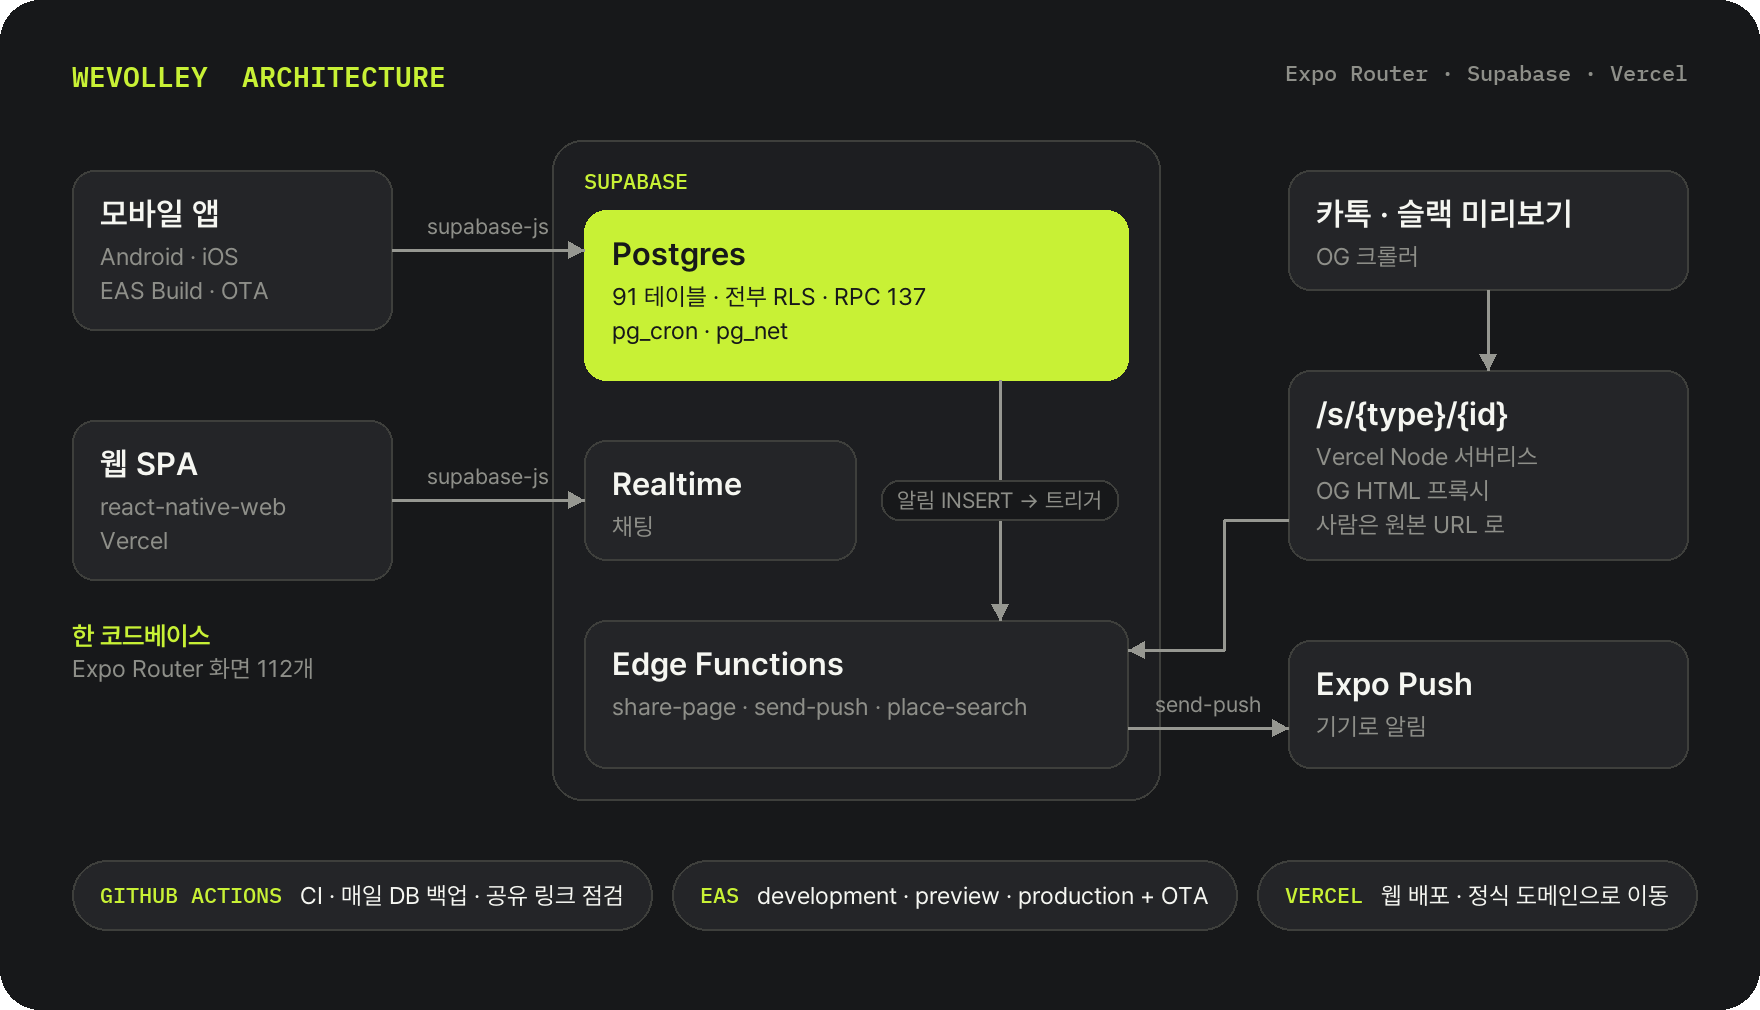
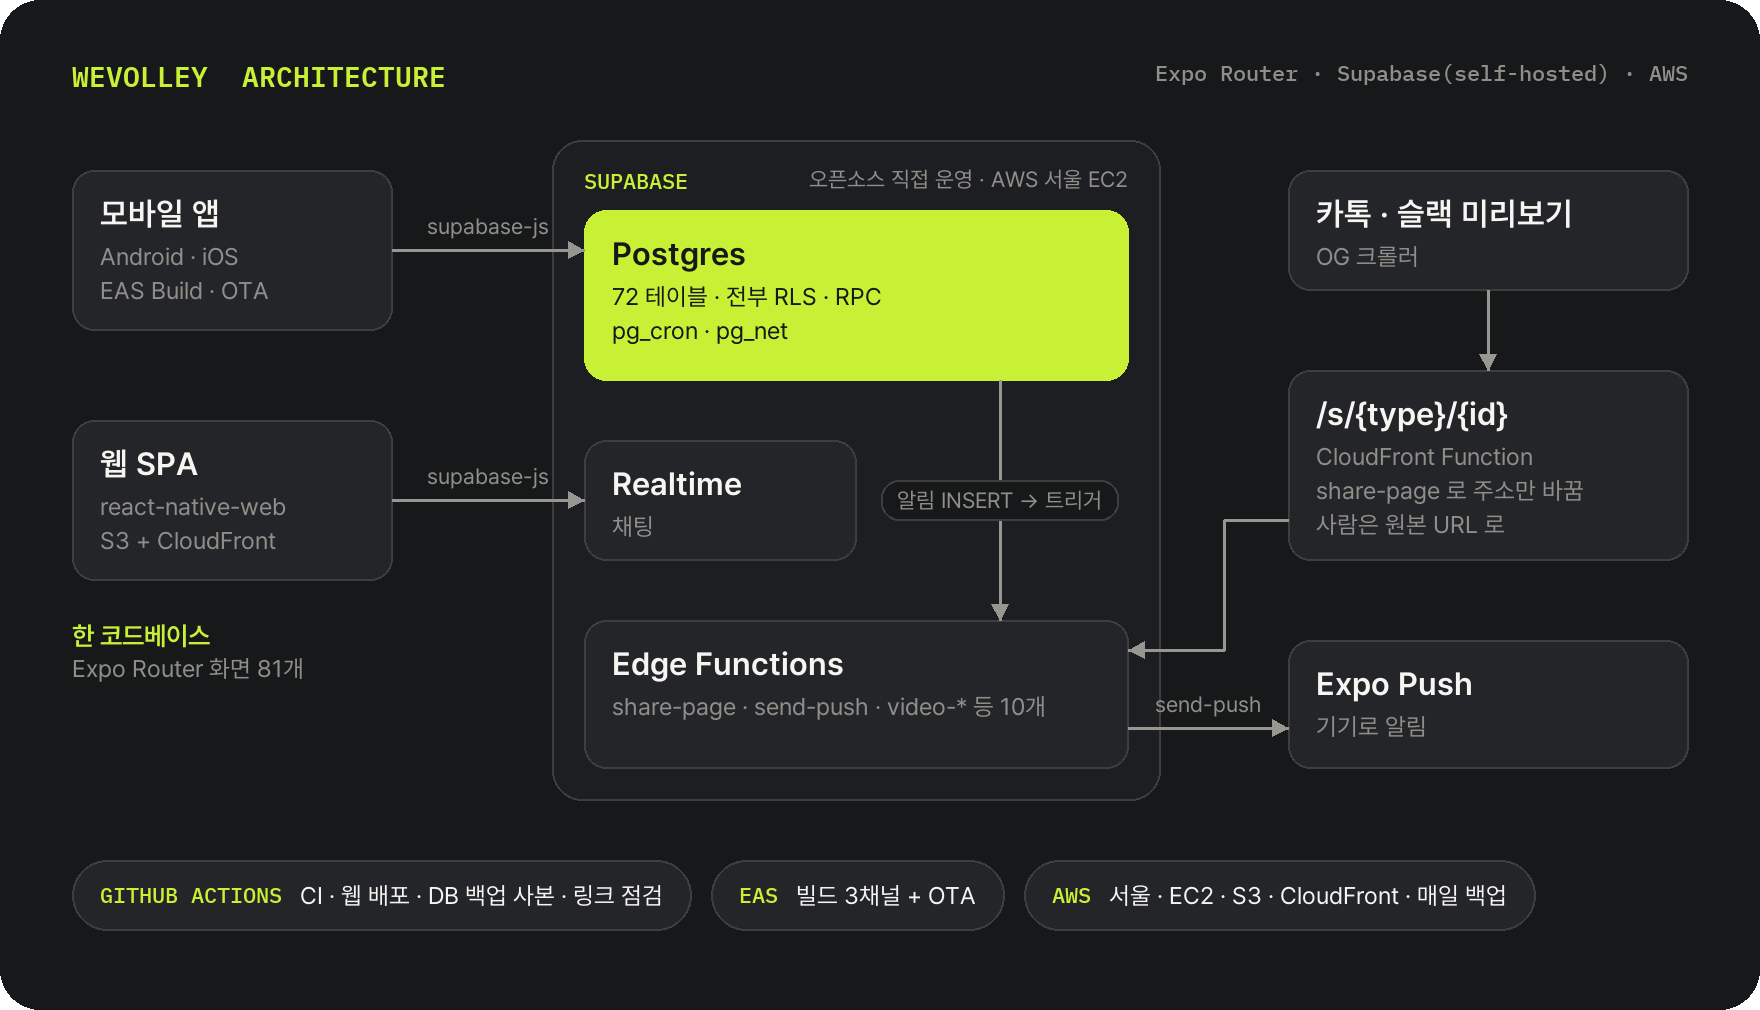
11월 기준으로 고침: 숫자 카드 · 아키텍처(백엔드 직접 운영) · 하는 일 · 엔지니어링 · 관련 링크

diff --git a/tools/render_architecture.py b/tools/render_architecture.py
@@ -27,7 +27,7 @@ def main() -> None:
     d = ImageDraw.Draw(img)
     d.rounded_rectangle((0, 0, W - 1, H - 1), 40, fill=INK)
     d.text((72, 58), "WEVOLLEY  ARCHITECTURE", font=mono, fill=VOLT)
-    d.text((W - 72, 58), "Expo Router · Supabase · Vercel", font=mono_s, fill=GRAY, anchor="ra")
+    d.text((W - 72, 58), "Expo Router · Supabase(self-hosted) · AWS", font=mono_s, fill=GRAY, anchor="ra")
 
     def box(x1, y1, x2, y2, head, lines=(), fill=BOX, fg=OFF, fg2=GRAY):
         d.rounded_rectangle((x1, y1, x2, y2), 22, fill=fill, outline=None if fill == VOLT else LINE, width=2)
@@ -60,20 +60,21 @@ def main() -> None:
 
     # 왼쪽: 한 코드베이스의 두 클라이언트
     box(72, 170, 392, 330, "모바일 앱", ["Android · iOS", "EAS Build · OTA"])
-    box(72, 420, 392, 580, "웹 SPA", ["react-native-web", "Vercel"])
+    box(72, 420, 392, 580, "웹 SPA", ["react-native-web", "S3 + CloudFront"])
     d.text((72, 620), "한 코드베이스", font=f("Pretendard-SemiBold.otf", 26), fill=VOLT)
-    d.text((72, 654), "Expo Router 화면 112개", font=sub, fill=GRAY)
+    d.text((72, 654), "Expo Router 화면 81개", font=sub, fill=GRAY)
 
     # 가운데: Supabase
     d.rounded_rectangle((552, 140, 1160, 800), 30, fill=PANEL, outline=LINE, width=2)
     d.text((584, 166), "SUPABASE", font=mono_s, fill=VOLT)
-    box(584, 210, 1128, 380, "Postgres", ["91 테이블 · 전부 RLS · RPC 137", "pg_cron · pg_net"], fill=VOLT, fg=INK, fg2=INK)
+    d.text((1128, 166), "오픈소스 직접 운영 · AWS 서울 EC2", font=small, fill=GRAY, anchor="ra")
+    box(584, 210, 1128, 380, "Postgres", ["72 테이블 · 전부 RLS · RPC", "pg_cron · pg_net"], fill=VOLT, fg=INK, fg2=INK)
     box(584, 440, 856, 560, "Realtime", ["채팅"])
-    box(584, 620, 1128, 768, "Edge Functions", ["share-page · send-push · place-search"])
+    box(584, 620, 1128, 768, "Edge Functions", ["share-page · send-push · video-* 등 10개"])
 
     # 오른쪽: 공유 링크 · 푸시
     box(1288, 170, 1688, 290, "카톡 · 슬랙 미리보기", ["OG 크롤러"])
-    box(1288, 370, 1688, 560, "/s/{type}/{id}", ["Vercel Node 서버리스", "OG HTML 프록시", "사람은 원본 URL 로"])
+    box(1288, 370, 1688, 560, "/s/{type}/{id}", ["CloudFront Function", "share-page 로 주소만 바꿈", "사람은 원본 URL 로"])
     box(1288, 640, 1688, 768, "Expo Push", ["기기로 알림"])
 
     # 화살표
@@ -89,8 +90,8 @@ def main() -> None:
     label(1208, 704, "send-push")
 
     # 아래: 배포 · 운영
-    chips = [("GITHUB ACTIONS", "CI · 매일 DB 백업 · 공유 링크 점검"), ("EAS", "development · preview · production + OTA"),
-             ("VERCEL", "웹 배포 · 정식 도메인으로 이동")]
+    chips = [("GITHUB ACTIONS", "CI · 웹 배포 · DB 백업 사본 · 링크 점검"), ("EAS", "빌드 3채널 + OTA"),
+             ("AWS", "서울 · EC2 · S3 · CloudFront · 매일 백업")]
     x = 72
     for head, text in chips:
         tw = d.textlength(head, font=mono_s) + 18 + d.textlength(text, font=sub) + 56

diff --git a/README.md b/README.md
@@ -9,7 +9,7 @@
 <h1 align="center">WeVolley 위볼리</h1>
 
 <p align="center">
-  배구 동호회 찾기부터 게스트 참여, 동호회 운영까지.<br>
+  배구 클럽 찾기부터 게스트 참여, 클럽 운영까지.<br>
   기획 · 디자인 · 개발 · 배포 · 운영을 한 사람이 하는 멀티플랫폼 앱
 </p>
 
@@ -23,55 +23,60 @@
   <img src="https://img.shields.io/badge/Expo-SDK_55-C8F135?style=flat-square&logo=expo&logoColor=white&labelColor=17181A" alt="Expo SDK 55">
   <img src="https://img.shields.io/badge/React_Native-0.83-C8F135?style=flat-square&logo=react&logoColor=white&labelColor=17181A" alt="React Native 0.83">
   <img src="https://img.shields.io/badge/TypeScript-5.9-C8F135?style=flat-square&logo=typescript&logoColor=white&labelColor=17181A" alt="TypeScript 5.9">
-  <img src="https://img.shields.io/badge/Supabase-Postgres-C8F135?style=flat-square&logo=supabase&logoColor=white&labelColor=17181A" alt="Supabase">
+  <img src="https://img.shields.io/badge/Supabase-self--hosted-C8F135?style=flat-square&logo=supabase&logoColor=white&labelColor=17181A" alt="Supabase self-hosted">
   <img src="https://img.shields.io/badge/TanStack_Query-5-C8F135?style=flat-square&logo=reactquery&logoColor=white&labelColor=17181A" alt="TanStack Query 5">
-  <img src="https://img.shields.io/badge/Vercel-Web-C8F135?style=flat-square&logo=vercel&logoColor=white&labelColor=17181A" alt="Vercel">
+  <img src="https://img.shields.io/badge/AWS-Seoul-C8F135?style=flat-square&labelColor=17181A" alt="AWS Seoul">
 </p>
 
 > 소개용 저장소다. 앱 코드는 비공개 저장소에 있다.
 
 <p align="center">
-  <img src="assets/numbers.png" width="100%" alt="가입자 272, 동호회 정보 306, 화면 112, 테이블 91 (2026.10.16)">
+  <img src="assets/numbers.png" width="100%" alt="가입자 325, 클럽 · 학원 정보 309, 화면 81, 테이블 72 (2026.11)">
 </p>
 
 ## 화면
 
 <p align="center">
   <img src="assets/screens/01-home.png" width="24%" alt="홈">
-  <img src="assets/screens/02-clubs-map.png" width="24%" alt="동호회 지도">
+  <img src="assets/screens/02-clubs-map.png" width="24%" alt="클럽 지도">
   <img src="assets/screens/03-guest.png" width="24%" alt="게스트 신청">
-  <img src="assets/screens/04-manage.png" width="24%" alt="동호회 운영">
+  <img src="assets/screens/04-manage.png" width="24%" alt="클럽 운영">
 </p>
 
 ## 하는 일
 
-- **찾기**: 지도 · 지역 · 이름으로 동호회와 모집 중인 일정, 공공 · 학교 체육관 정보
+- **찾기**: 지도 · 지역 · 이름으로 클럽과 게스트를 모집 중인 일정 찾기
 - **게스트**: 가입 전에 게스트로 신청하고 운영진이 승인
-- **동호회 운영**: 일정과 참석 투표, 회원, 회비 장부, 후기
-- **소통**: 동호회 채팅, 커뮤니티, 알림
-- **공유**: 동호회 · 일정 링크를 로그인 없이 열고, 카톡 · 슬랙에 미리보기
+- **클럽 운영**: 일정과 참석 투표, 회원, 회비 장부, 공지, 회칙
+- **소통**: 클럽 채팅, 커뮤니티, 알림
+- **기록**: 날짜마다 남기는 운동 일지
+- **영상(베타)**: 경기 영상을 올려 클럽에 공유. 랠리와 내 장면 찾기는 [따로 만드는 비전 엔진](https://github.com/hadan-HwH/volleyball-vision)으로 준비 중
+- **공유**: 클럽 · 일정 링크를 로그인 없이 열고, 카톡 · 슬랙에 미리보기
+- **다국어**: 한국어 · 영어 · 일본어 · 중국어(간체)
 - **운영 도구**: 신고 처리, 사용자 관리
 
 ## 아키텍처
 
 <p align="center">
-  <img src="assets/architecture.png" width="100%" alt="아키텍처: 모바일 앱과 웹 SPA 가 supabase-js 로 Supabase(Postgres · Realtime · Edge Functions)를 쓰고, 공유 링크는 Vercel Node 서버리스가 share-page 를 프록시하며, 알림은 트리거 → send-push → Expo Push">
+  <img src="assets/architecture.png" width="100%" alt="아키텍처: 모바일 앱과 웹 SPA 가 supabase-js 로 AWS 서울에서 직접 운영하는 오픈소스 Supabase(Postgres · Realtime · Edge Functions)를 쓰고, 공유 링크는 CloudFront Function 이 share-page 로 넘기며, 알림은 트리거 → send-push → Expo Push">
 </p>
 
 ## 엔지니어링
 
 ### 한 코드로 Android · iOS · 웹
 
-- Expo Router 화면 112개를 세 플랫폼이 함께 쓴다. 웹은 react-native-web 으로 그린다.
+- Expo Router 화면 81개를 세 플랫폼이 함께 쓴다. 웹은 react-native-web 으로 그린다.
 - 지도 같은 네이티브 전용 모듈은 `*.native.tsx` / `*.web.tsx` 파일로 나눈다.
 - 웹에서만 확인하면 놓치는 함정을 규칙으로 만들었다. NativeWind 네이티브 런타임이 함수형 `style` 을 빈 객체로 바꿔 버린 실제 사고 뒤에는 ESLint 규칙과 테스트로 막는다. `Alert.alert` 는 웹에서 아무것도 띄우지 않아 금지하고 확인 모달과 토스트로 바꿨다.
+- 화면 문구 2,200여 개를 Lingui 로 관리해 4개 언어로 낸다.
 
 ### 로그인 없이 열리는 공유 링크
 
 - 미리보기용 OG 엔트리(`/s/{type}/{id}`)와 원본 URL(`/club/{id}` 등)을 나눴다.
-- OG 엔트리는 Vercel Node 서버리스가 Supabase Edge Function(`share-page`)을 프록시한다. Supabase 게이트웨이가 `text/html` 을 `text/plain` 으로 바꿔 보내서, 프록시가 같은 본문을 `text/html` 로 다시 싣는다.
+- OG 엔트리는 CloudFront Function 이 주소만 바꿔 Edge Function(`share-page`)으로 넘긴다. 관리형 Supabase 를 쓸 때는 게이트웨이가 `text/html` 을 `text/plain` 으로 바꿔 보내서 서버리스 프록시가 본문을 다시 실어야 했는데, 백엔드를 직접 운영하면서 프록시를 없앴다.
 - 크롤러가 아니면 원본 URL 로 보내고, 원본은 SPA 가 로그인 없이 게스트 화면으로 그린다. Android 는 `intent://` 로 앱이나 스토어를, iOS 는 유니버설 링크로 앱을 연다.
 - 공유 링크 4종의 연결을 배포 직후와 매주 자동으로 점검한다(GitHub Actions, 읽기 전용).
+- 클럽 · 지역 페이지는 빌드할 때 정적 HTML 로 미리 만들어 검색에 노출한다. 요청마다 도는 함수가 없어 느려지지 않는다.
 
 ### 데이터 계층 규칙을 코드로 강제
 
@@ -81,38 +86,45 @@
 
 ### 규칙은 Postgres 가 지킨다
 
-- 테이블 91개 모두 RLS 를 켰다. 정지된 사용자는 쓰기가 막힌다. 권한이 엮인 작업은 `SECURITY DEFINER` RPC 로 한다.
-- 마이그레이션 419개. prod 에 올라간 파일은 sha256 으로 잠가서, 고치거나 사이에 새 파일을 끼우면 테스트가 실패한다.
+- 테이블 72개 모두 RLS 를 켰고, 빠진 테이블이 있으면 통합 테스트가 실패한다. 정지된 사용자는 쓰기가 막힌다. 권한이 엮인 작업은 `SECURITY DEFINER` RPC 로 한다.
+- 마이그레이션 477개. prod 에 올라간 파일은 sha256 으로 잠가서, 고치거나 사이에 새 파일을 끼우면 테스트가 실패한다.
 - 함수를 다시 정의하는 마이그레이션은 직전 정의의 본문 줄과 `SECURITY DEFINER` · `SET` 이 다 남았는지 테스트가 검사한다. 일부러 뺀 줄은 이유를 남겨야 통과한다.
+- 기능을 뺄 때는 화면 · 테이블 · 크론까지 같이 걷는다. 10월 뒤로 화면 112 → 81개, 테이블 91 → 72개로 줄였다.
 
 ### 알림
 
 - `notifications` INSERT → 트리거 → Edge Function `send-push` → Expo Push.
 - 저장할 필요가 없는 알림은 DB 를 거치지 않고 `pg_net` 으로 바로 보낸다. 정기 작업은 `pg_cron`.
 
+### 백엔드를 직접 운영
+
+- 2026년 10월에 관리형 Supabase 에서 AWS 서울의 오픈소스 Supabase(EC2 한 대, Docker Compose)로 옮겼다.
+- Postgres · S3 API · Docker 같은 표준만 쓴다. API 주소를 내 도메인으로 바꿔 두어, 다음에 옮길 때는 앱 업데이트 없이 DNS 만 바꾸면 된다.
+- 서버가 매일 DB 를 덤프해 S3 에 올리고, GitHub Actions 가 그 사본을 암호화해 AWS 밖에 한 벌 더 둔다. 백업이 26시간 넘게 없으면 작업이 실패해 알린다.
+- 영상은 S3 에 올리고 CloudFront 서명 URL 로 본다.
+
 ### 릴리스
 
 - 네이티브는 EAS 3채널(development · preview · production).
-- JS 만 바뀐 배포는 OTA 스크립트 하나로 한다. 네이티브 변경, prod 에 아직 안 올라간 마이그레이션, 로컬 URL 이 번들에 섞이는 경우를 감지하면 멈춘다.
-- 웹은 Vercel. `*.vercel.app` 으로 들어오면 정식 도메인으로 보낸다.
-- DB 는 매일 덤프를 암호화해 따로 보관한다(GitHub Actions).
+- JS 만 바뀐 배포는 OTA 스크립트 하나로 한다. lint · 타입 · 테스트가 빨갛거나, 네이티브 변경, prod 에 아직 안 올라간 마이그레이션, 로컬 URL 이 번들에 섞이는 경우를 감지하면 멈춘다.
+- 웹은 main 에 푸시하면 GitHub Actions 가 S3 + CloudFront 에 올린다. AWS 에는 저장된 키 없이 OIDC 역할로 들어간다.
 
 ### 품질 게이트
 
 - 커밋 전: 바뀐 파일 ESLint + 전체 타입 검사. 타입 에러가 있으면 커밋이 안 된다.
-- CI: lint → typecheck → Jest(테스트 파일 306개).
-- lint 경고 총량을 21로 동결했다. 새 경고를 들이려면 기존 경고를 먼저 갚고 한도를 내린다(되돌아가지 않는 래칫).
+- CI: lint → typecheck → Jest(테스트 파일 278개). PR 에는 Playwright 웹 E2E 와 DB 통합 테스트가 더 돈다.
+- lint 경고 총량을 19로 동결했다. 새 경고를 들이려면 기존 경고를 먼저 갚고 한도를 내린다(되돌아가지 않는 래칫).
 
 ## 기술 스택
 
-- **앱**: Expo SDK 55 · Expo Router(typed routes) · React Native 0.83 · React 19 · TypeScript 5.9 · NativeWind 4 · Reanimated 4 · FlashList 2
+- **앱**: Expo SDK 55 · Expo Router(typed routes) · React Native 0.83 · React 19 · TypeScript 5.9 · NativeWind 4 · Reanimated 4 · FlashList 2 · Lingui 5
 - **데이터**: TanStack Query 5(AsyncStorage 캐시 영속화) · supabase-js
-- **백엔드**: Supabase: Postgres · RLS · RPC · Realtime · Storage · Edge Functions(Deno) · pg_cron · pg_net
-- **배포**: EAS Build · EAS Update(OTA) · Vercel(SPA + Node 서버리스)
-- **품질**: ESLint · Prettier · Jest · Husky + lint-staged · GitHub Actions
+- **백엔드**: 오픈소스 Supabase 직접 운영: Postgres · RLS · RPC · Realtime · Storage(S3) · Edge Functions(Deno) · pg_cron · pg_net
+- **인프라**: AWS 서울(EC2 · S3 · CloudFront) · Docker Compose · EAS Build · EAS Update(OTA)
+- **품질**: ESLint · Prettier · Jest · Playwright · Husky + lint-staged · GitHub Actions · Sentry
 
 ## 관련
 
-- [WeavePlay](https://github.com/hadan-HwH/weaveplay): 배구 경기 영상에서 공 궤적 · 접촉 · 랠리를 찾는 비전 파이프라인 기록
+- [Volleyball Vision](https://github.com/hadan-HwH/volleyball-vision): 배구 경기 영상에서 랠리와 터치를 찾는 비전 사이드 프로젝트
 
-<sub>숫자는 2026-10-16 기준(가입자는 봇 계정 제외). 숫자 카드와 아키텍처 그림은 `tools/` 의 스크립트로 다시 그린다.</sub>
+<sub>숫자는 2026년 11월 기준(가입자 · 클럽 정보는 11-03 운영 DB, 나머지는 11-10 코드). 숫자 카드와 아키텍처 그림은 `tools/` 의 스크립트로 다시 그린다.</sub>
